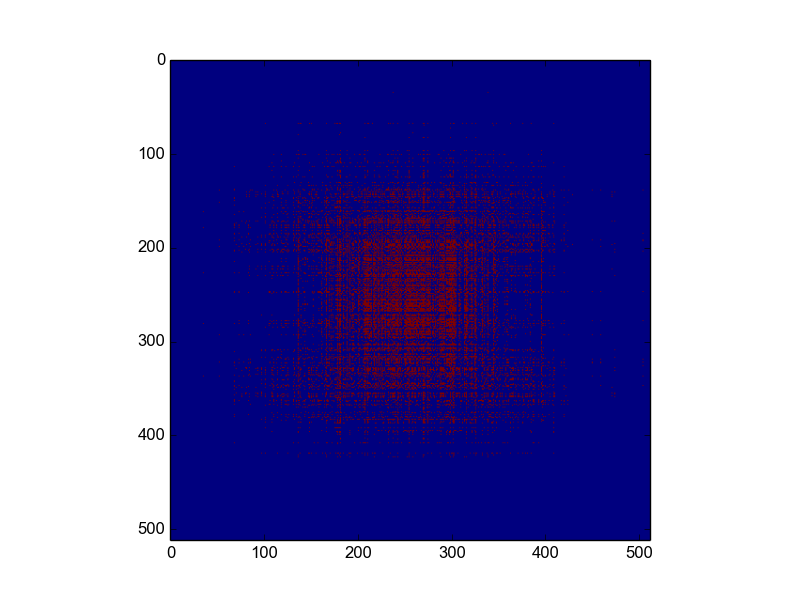
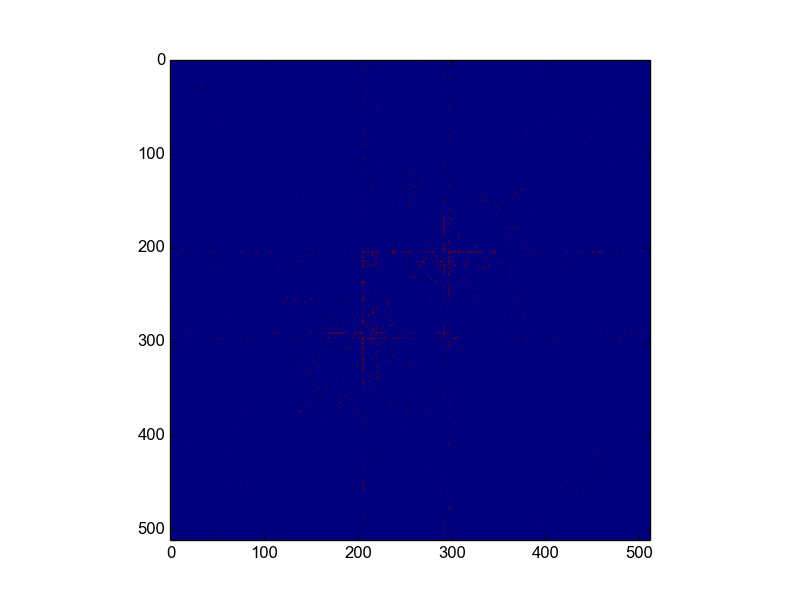
fuckit energy does not work

Changed region(s): [[0.3125, 0.27, 0.6875, 0.72]]

diff --git a/2_fractal.py b/2_fractal.py
@@ -4,6 +4,7 @@ import numpy.linalg as np_lin
 import matplotlib.pyplot as plt
 import scipy.sparse as sci_sp
 import scipy.ndimage as sci_im
+import networkx as nx
 import random
 import numba
 import operator
@@ -82,25 +83,27 @@ def scramble(arr, num_swaps=5000):
         new_arr = perform_swap(new_arr, swap)
     return new_arr
 
-def unscramble(scrambled_arr):
+def fuckit_energy(arr, orig_arr):
+    return np.sum(np.abs(arr - orig_arr))
+
+def unscramble(scrambled_arr, orig_arr, num_iters=20000):
     """
     Let's have some proper tau-EO
     """
     best_energy = float("inf")
     best_arr = scrambled_arr.copy()
-    try:
-        while True:
-            neighbors = generate_neighbors(best_arr)
-            for neighbor in neighbors:
-                neighbor_energy = energy(neighbor)
-                if neighbor_energy < best_energy:
-                    print "found best"
-                    best_energy = neighbor_energy
-                    best_arr = neighbor
-    except KeyboardInterrupt:
-        plt.imshow(best_arr)
-        plt.savefig("pics/unscrambled_2.png")
-        sys.exit(0)
+    for i in xrange(num_iters):
+        neighbors = generate_neighbors(best_arr)
+        for neighbor in neighbors:
+            neighbor_energy = fuckit_energy(neighbor, orig_arr)
+            if neighbor_energy < best_energy:
+                print "found best"
+                print best_energy
+                best_energy = neighbor_energy
+                best_arr = neighbor
+    plt.imshow(best_arr)
+    plt.savefig("pics/unscrambled_2.png")
+    sys.exit(0)
 
 def ga_unscramble(scrambled_frac, num_agents=10, num_iters=100000, name="ga_unscramble"):
     agents = [scrambled_frac] * num_agents
@@ -122,7 +125,7 @@ def ga_unscramble(scrambled_frac, num_agents=10, num_iters=100000, name="ga_unsc
 def test_unscrambling():
     frac = julia_quadratic()
     scrambled_frac = scramble(frac)
-    unscramble(scrambled_frac)
+    unscramble(scrambled_frac, frac)
 
 def test_ga_unscrambling(name):
     frac = julia_quadratic()
@@ -150,7 +153,21 @@ def test_add_julia_quadratic():
     plt.imshow(first)
     plt.show()
 
+def read_data(filename="./corpus.txt"):
+    with open(filename) as corpus_file:
+        corpus = corpus_file.read().split()
+        bigrams = zip(corpus, corpus[1:])
+        net = nx.Graph()
+        net.add_edges_from(bigrams)
+        net_arr = nx.to_numpy_matrix(net)
+        scramble(net_arr, num_swaps=20000)
+    data_arr = net_arr[0:512, 0:512]
+    return data_arr
+
+def test_data_unscrambling():
+    frac = julia_quadratic()
+    data = read_data()
+    unscramble(data, frac)
+
 if __name__ == "__main__":
-    assert len(sys.argv) == 2
-    name = sys.argv[1]
-    test_ga_unscrambling(name)
+    test_data_unscrambling()
